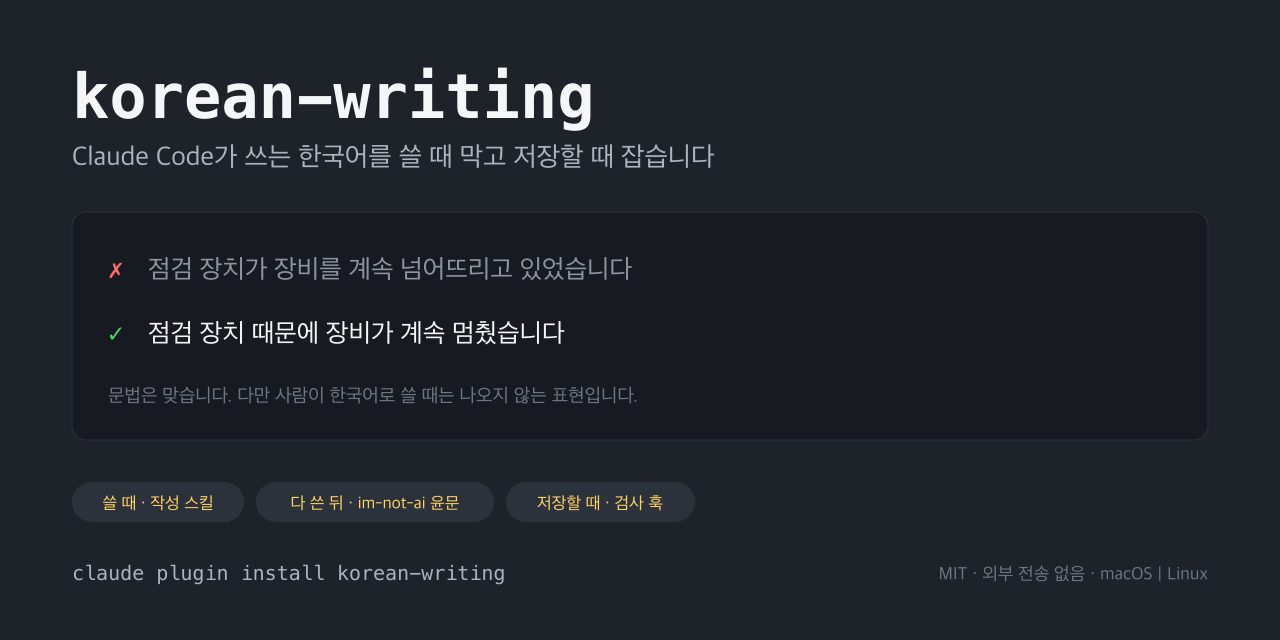
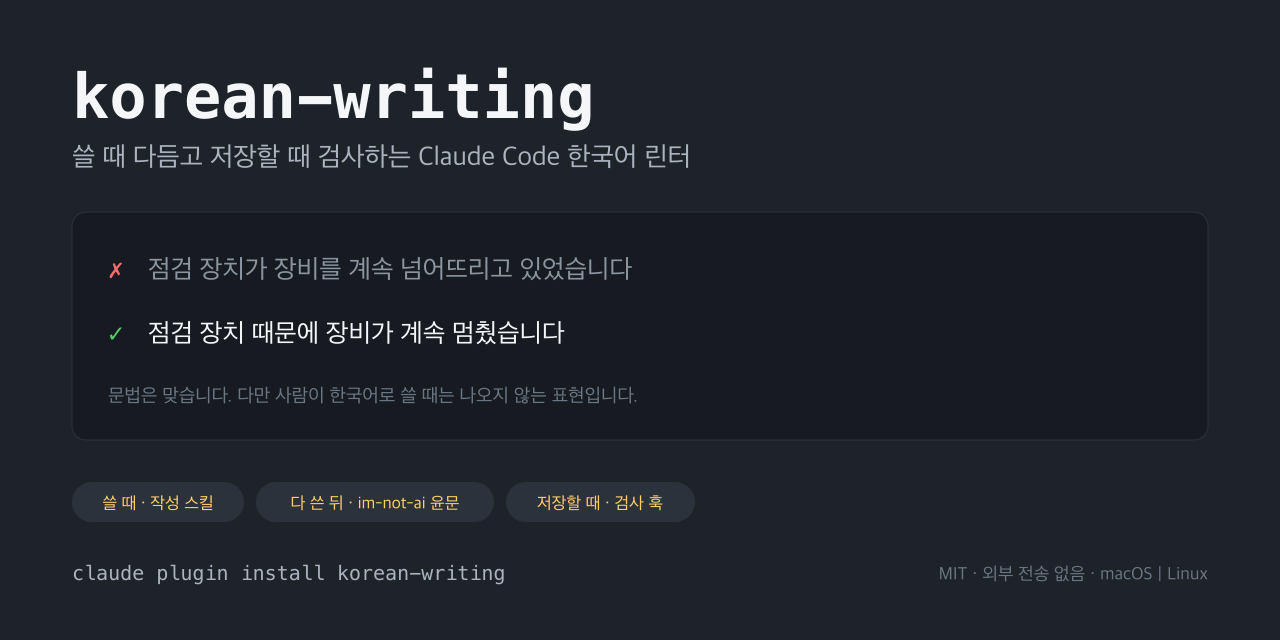
docs: 소개 문구를 "쓸 때 다듬고 저장할 때 검사하는" 으로 바꿈
「쓸 때 막고 저장할 때 잡습니다」 는 「막고」 가 무엇을 막는지 드러나지 않았다.
README 첫 줄, 배너 한·영, 소셜 카드, plugin.json·marketplace.json 설명의 앞머리를 같이 바꾸고
소셜 카드 PNG 를 다시 뽑았다.

Changed region(s): [[0.0625, 0.2188, 0.5625, 0.2812]]

diff --git a/CHANGELOG.md b/CHANGELOG.md
@@ -8,6 +8,10 @@
 
 - **모델이 `korean-writing` 스킬을 스스로 부르기 전에 적용할지 묻습니다.** 새 PreToolUse 훅 `pretooluse-skill.sh` 가 이 스킬의 `Skill` 호출에 `permissionDecision: "ask"` 를 돌려줍니다. 문체 규칙을 답변에 주입했을 때 세부가 빠진 것(`EVALUATION.md` H13)과 같은 규칙집을 쓰므로 세부를 잃으면 안 되는 문서라면 쓰기 전에 거절할 수 있게 했습니다. 거절하면 규칙 없이 씁니다. 헤드리스 실측에서 평범한 글 요청에 모델이 스스로 이 스킬을 부를 때 훅이 걸렸고 기본 모드와 bypass 모드 모두 확인 없이는 스킬이 돌지 않았습니다. 사용자가 `/korean-writing` 을 직접 친 실행은 훅에 걸리지 않았습니다. 대화형 세션의 확인 창은 공식 문서의 설명이고 직접 보지는 못했습니다. 다른 스킬과 도구는 그대로 지나가고 `KOREAN_WRITING_HOOK_DISABLED=1` 이면 묻지 않습니다. 묻는 문장은 한국어이고 모델이 넘긴 요청 요약을 60자까지 「」 안에 보여 줍니다. 예: 「운영팀에 보낼 슬랙 공지를 3줄로 작성…」 작성에 korean-writing 문체 규칙을 적용할까요? 요청에 적은 내용은 그대로 담지만 Claude 가 덧붙이는 설명은 짧아질 수 있습니다. 이 주의 문구는 스킬로 직접 잰 결과만큼만 말합니다(`EVALUATION.md` J3). 요청에 적어 준 사실 27항목은 스킬을 켜도 모두 담겼고, 사실을 주지 않은 설명 문서는 한글 661자에서 450자로 짧아지며 곁가지 설명 하나가 8/8 에서 3/8 로 줄었습니다. 같은 글자 수의 무관한 문서를 붙인 대조군에서는 그런 차이가 없었습니다. 확인 창에 이 사유가 보이는지 공식 문서에 적혀 있지 않아 같은 문장을 `systemMessage` 로도 냅니다. 회귀 테스트 22건을 `tests/test_pretooluse.py` 로 넣었습니다
 
+### 변경
+
+- **README 첫 줄과 배너·소셜 카드·매니페스트 설명을 「쓸 때 다듬고 저장할 때 검사하는 Claude Code 한국어 린터」 로 바꿨습니다.** 전에는 「Claude Code가 쓰는 한국어를 쓸 때 막고 저장할 때 잡습니다」 였는데 「막고」 가 무엇을 막는지 드러나지 않았습니다. 영어판도 「polished while writing, checked on save」 로 맞췄습니다
+
 ## [1.2.0] - 2026-09-11
 
 ### 추가

diff --git a/README.md b/README.md
@@ -9,7 +9,7 @@
 </p>
 
 <p align="center">
-  <strong>Claude Code가 쓰는 한국어를 쓸 때 막고 저장할 때 잡는 플러그인입니다.</strong><br>
+  <strong>쓸 때 다듬고 저장할 때 검사하는 Claude Code 한국어 린터입니다.</strong><br>
   새 글은 첫 줄부터 규칙대로 쓰고 <code>.md</code>로 저장하면 그 턴 안에서 AI 티를 짚어 Claude에게 돌려줍니다.<br>
   이미 쓴 글은 내장한 <a href="https://github.com/epoko77-ai/im-not-ai">im-not-ai</a>로 다듬습니다.<br>
   설치는 두 줄이고 설정할 것은 없습니다. 원문은 이 컴퓨터를 벗어나지 않습니다.

diff --git a/README.en.md b/README.en.md
@@ -9,7 +9,7 @@
 </p>
 
 <p align="center">
-  <strong>A Korean prose linter for Claude Code: clean from the first line, caught the moment a file is saved.</strong><br>
+  <strong>A Korean prose linter for Claude Code: polished while writing, checked on save.</strong><br>
   New text follows the rules from the first line. When a <code>.md</code> is saved, AI tells are flagged and handed back to Claude in the same turn.<br>
   Text that already exists is polished by the bundled <a href="https://github.com/epoko77-ai/im-not-ai">im-not-ai</a>.<br>
   Two commands to install, nothing to configure. Nothing you write leaves your machine.
